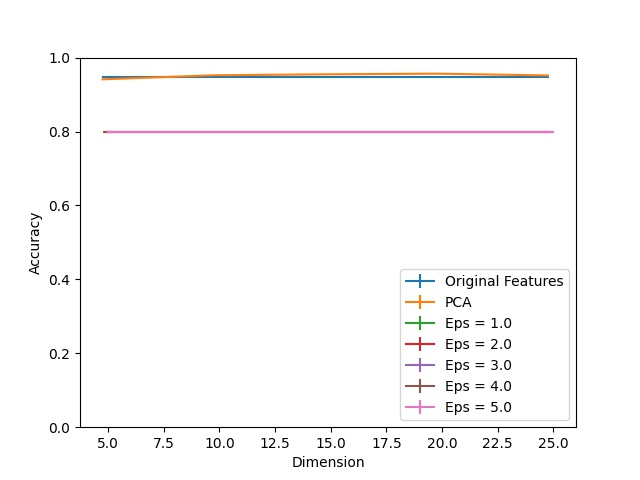
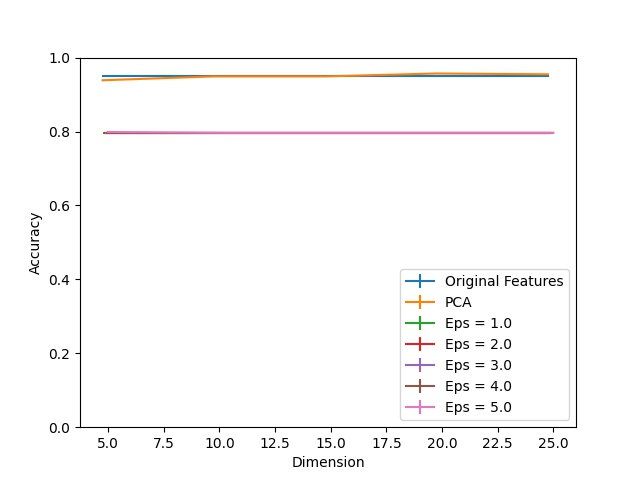
Attempt clipping

Changed region(s): [[0.1562, 0.125, 0.8438, 0.1875], [0.1562, 0.25, 0.875, 0.2812]]

diff --git a/multi-dim-featcreation/covtype67_all_experiments/covtype67_privatepca.py b/multi-dim-featcreation/covtype67_all_experiments/covtype67_privatepca.py
@@ -160,10 +160,16 @@ if __name__ == "__main__":
 				f_train_priv = np.matmul(f_train, priv_pca)
 				f_test_priv = np.matmul(f_test, priv_pca)
 
+				perc05 = np.percentile(f_train_priv, 5, axis = 0 , keepdims = True)
+				perc95 = np.percentile(f_train_priv, 95, axis = 0 , keepdims = True)
+				f_train_priv = np.clip(f_train_priv, a_min = perc05, a_max = perc95)
 				sens_list = get_sens_list(f_train_priv)
 				f_train_priv = pd.DataFrame(data = f_train_priv, index = index_train, columns = ["Comp %i" % (i + 1) for i in range(dim)])
+				
 				dp_join = DP_Join(eps_memb, eps_val, sens_list, 'Real')
 				dp_join.join(l_train, f_train_priv)
+				dp_join.features = np.clip(dp_join.features, a_min = perc05, a_max = perc95)
+				f_test_priv = np.clip(f_test_priv, a_min = perc05, a_max = perc95)
 
 				for alg in algs:
 					trial_dict[alg].append(get_loss(dp_join.features, dp_join.labels, f_test_priv, l_test, alg))
@@ -180,7 +186,7 @@ if __name__ == "__main__":
 		alg_df = alg_df
 		print(alg_df)
 
-		file = 'covtype67_pca_%s_trials=%i' % (alg.lower(), num_trials)
+		file = 'covtype67_pca_centeredclip90_%s_trials=%i' % (alg.lower(), num_trials)
 		alg_df.to_csv('%s.csv' % file)
 		shift = -0.25
 		plt.ylim((0.0, 1.0))

diff --git a/multi-dim-featcreation/epileptic/epileptic_privatepca.py b/multi-dim-featcreation/epileptic/epileptic_privatepca.py
@@ -162,16 +162,18 @@ if __name__ == "__main__":
 				f_train_priv = np.matmul(f_train, priv_pca)
 				f_test_priv = np.matmul(f_test, priv_pca)
 
-				# Test clipping
 				perc05 = np.percentile(f_train_priv, 5, axis = 0 , keepdims = True)
 				perc95 = np.percentile(f_train_priv, 95, axis = 0 , keepdims = True)
 				f_train_priv = np.clip(f_train_priv, a_min = perc05, a_max = perc95)
-				f_test_priv = np.clip(f_test_priv, a_min = perc05, a_max = perc95)
-
 				sens_list = get_sens_list(f_train_priv)
 				f_train_priv = pd.DataFrame(data = f_train_priv, index = index_train, columns = ["Comp %i" % (i + 1) for i in range(dim)])
+				
 				dp_join = DP_Join(eps_memb, eps_val, sens_list, 'Real')
 				dp_join.join(l_train, f_train_priv)
+				# Test clipping
+				
+				dp_join.features = np.clip(dp_join.features, a_min = perc05, a_max = perc95)
+				f_test_priv = np.clip(f_test_priv, a_min = perc05, a_max = perc95)
 
 				for alg in algs:
 					trial_dict[alg].append(get_loss(dp_join.features, dp_join.labels, f_test_priv, l_test, alg))

diff --git a/multi-dim-featcreation/covtype67_all_experiments/covtype67_privatejl.py b/multi-dim-featcreation/covtype67_all_experiments/covtype67_privatejl.py
@@ -172,7 +172,7 @@ if __name__ == "__main__":
 		alg_df = alg_df 
 		print(alg_df)
 
-		file = 'covtype67_jl_%s_trials=%i' % (alg.lower(), num_trials)
+		file = 'covtype67_jl_centeredclip90_%s_trials=%i' % (alg.lower(), num_trials)
 		alg_df.to_csv('%s.csv' % file)
 		shift = -0.25
 		plt.ylim((0.0, 1.0))
